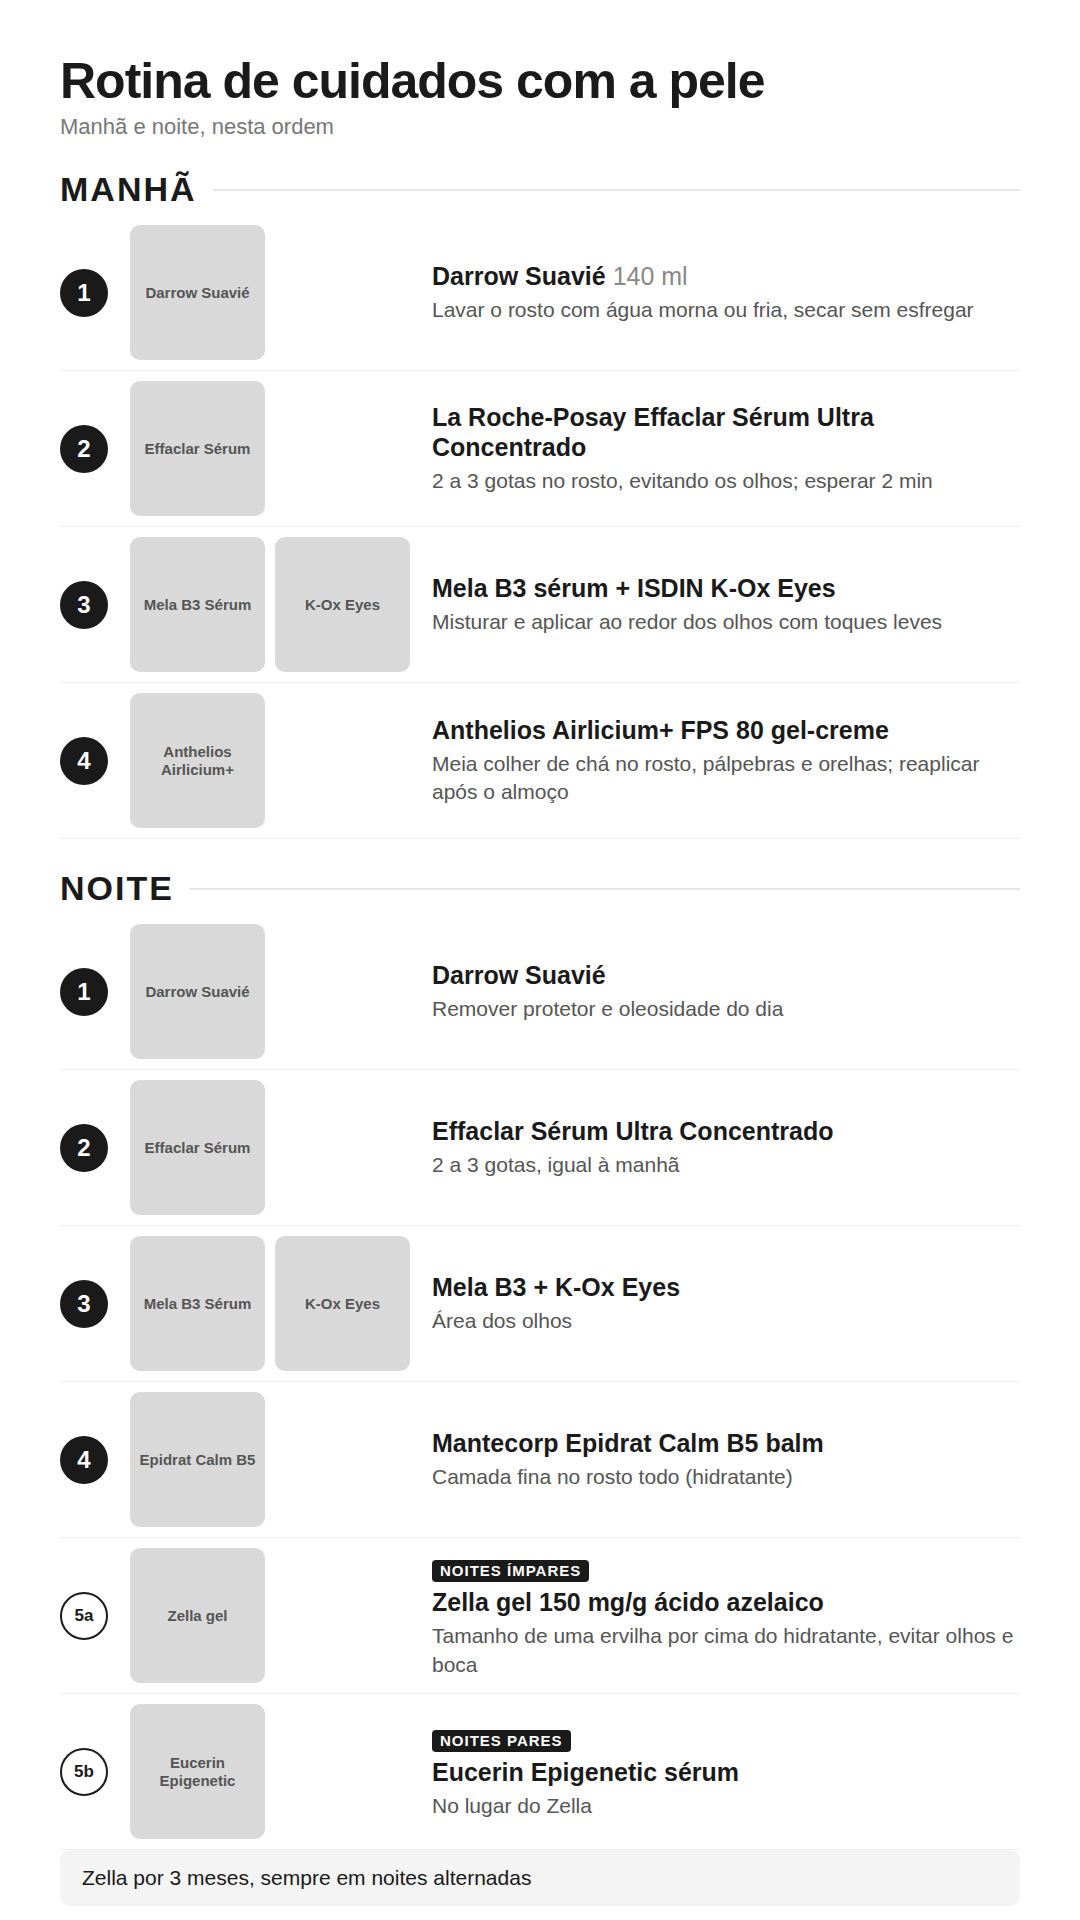
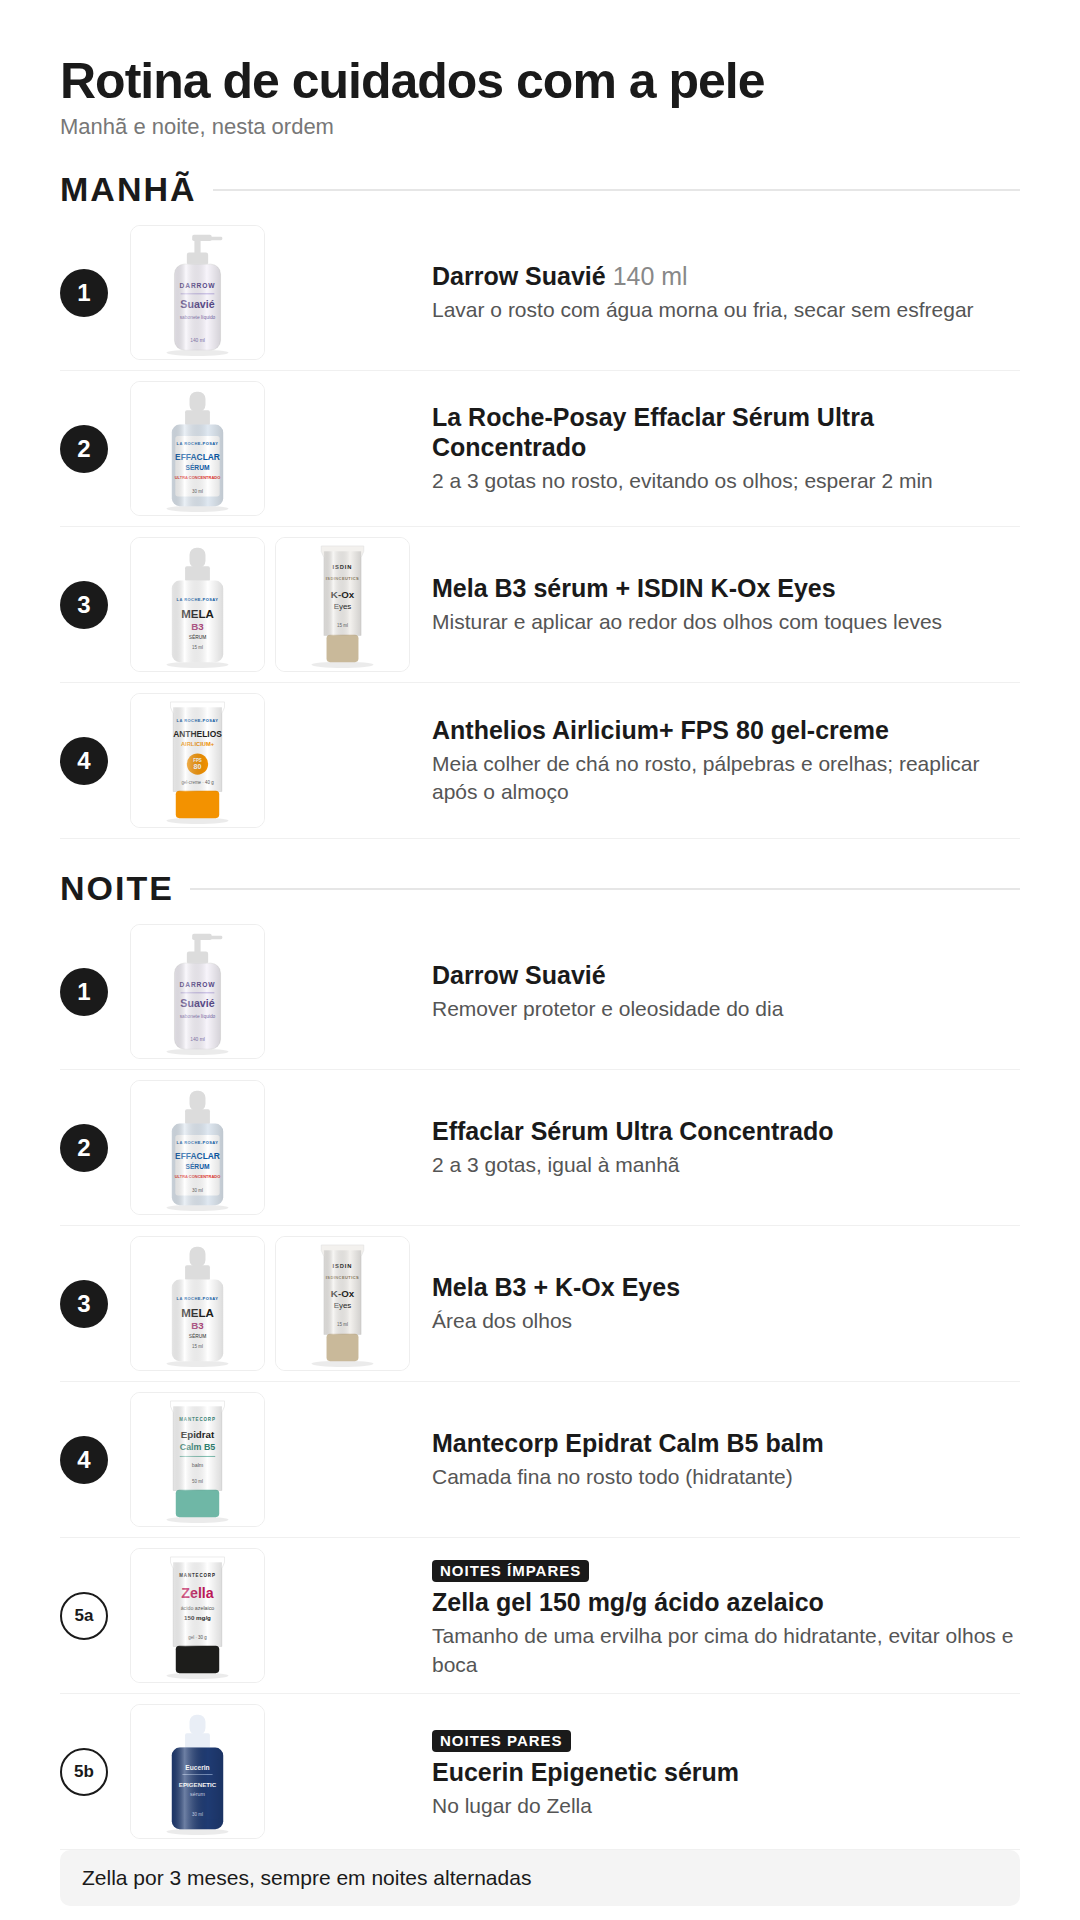
Substitui placeholders por ilustrações vetoriais das embalagens
Fotos oficiais não puderam ser baixadas (rede do ambiente bloqueia os
sites); o script aceita .svg e usa fotos reais se forem colocadas em assets/.

Claude-Session: https://claude.ai/code/session_01MdbmXhLyM3HrPLwpjDKrzL

Changed region(s): [[0.1222, 0.4688, 0.3972, 0.9688], [0.1222, 0.0938, 0.3972, 0.4375]]

diff --git a/rotina_pele.html b/rotina_pele.html
@@ -27,44 +27,44 @@ h1{font-size:50px;font-weight:800;letter-spacing:-1px}
 <div class="sec"><h2>Manhã</h2><div class="line"></div></div>
 
 <div class="row "><div class="num">1</div>
-<div class="imgs"><div class="ph ph-empty"><span>Darrow Suavié</span></div></div>
+<div class="imgs"><div class="ph"><img src="file:///home/user/controle-cashless/assets/darrow_suavie.svg"></div></div>
 <div class="txt"><div class="name">Darrow Suavié <span style='font-weight:400;color:#888'>140 ml</span></div><div class="desc">Lavar o rosto com água morna ou fria, secar sem esfregar</div></div></div>
 
 <div class="row "><div class="num">2</div>
-<div class="imgs"><div class="ph ph-empty"><span>Effaclar Sérum</span></div></div>
+<div class="imgs"><div class="ph"><img src="file:///home/user/controle-cashless/assets/lrp_effaclar_serum.svg"></div></div>
 <div class="txt"><div class="name">La Roche-Posay Effaclar Sérum Ultra Concentrado</div><div class="desc">2 a 3 gotas no rosto, evitando os olhos; esperar 2 min</div></div></div>
 
 <div class="row "><div class="num">3</div>
-<div class="imgs"><div class="ph ph-empty"><span>Mela B3 Sérum</span></div><div class="ph ph-empty"><span>K-Ox Eyes</span></div></div>
+<div class="imgs"><div class="ph"><img src="file:///home/user/controle-cashless/assets/lrp_mela_b3.svg"></div><div class="ph"><img src="file:///home/user/controle-cashless/assets/isdin_kox_eyes.svg"></div></div>
 <div class="txt"><div class="name">Mela B3 sérum + ISDIN K-Ox Eyes</div><div class="desc">Misturar e aplicar ao redor dos olhos com toques leves</div></div></div>
 
 <div class="row "><div class="num">4</div>
-<div class="imgs"><div class="ph ph-empty"><span>Anthelios Airlicium+</span></div></div>
+<div class="imgs"><div class="ph"><img src="file:///home/user/controle-cashless/assets/lrp_anthelios_airlicium.svg"></div></div>
 <div class="txt"><div class="name">Anthelios Airlicium+ FPS 80 gel-creme</div><div class="desc">Meia colher de chá no rosto, pálpebras e orelhas; reaplicar após o almoço</div></div></div>
 <div class="sec"><h2>Noite</h2><div class="line"></div></div>
 
 <div class="row "><div class="num">1</div>
-<div class="imgs"><div class="ph ph-empty"><span>Darrow Suavié</span></div></div>
+<div class="imgs"><div class="ph"><img src="file:///home/user/controle-cashless/assets/darrow_suavie.svg"></div></div>
 <div class="txt"><div class="name">Darrow Suavié</div><div class="desc">Remover protetor e oleosidade do dia</div></div></div>
 
 <div class="row "><div class="num">2</div>
-<div class="imgs"><div class="ph ph-empty"><span>Effaclar Sérum</span></div></div>
+<div class="imgs"><div class="ph"><img src="file:///home/user/controle-cashless/assets/lrp_effaclar_serum.svg"></div></div>
 <div class="txt"><div class="name">Effaclar Sérum Ultra Concentrado</div><div class="desc">2 a 3 gotas, igual à manhã</div></div></div>
 
 <div class="row "><div class="num">3</div>
-<div class="imgs"><div class="ph ph-empty"><span>Mela B3 Sérum</span></div><div class="ph ph-empty"><span>K-Ox Eyes</span></div></div>
+<div class="imgs"><div class="ph"><img src="file:///home/user/controle-cashless/assets/lrp_mela_b3.svg"></div><div class="ph"><img src="file:///home/user/controle-cashless/assets/isdin_kox_eyes.svg"></div></div>
 <div class="txt"><div class="name">Mela B3 + K-Ox Eyes</div><div class="desc">Área dos olhos</div></div></div>
 
 <div class="row "><div class="num">4</div>
-<div class="imgs"><div class="ph ph-empty"><span>Epidrat Calm B5</span></div></div>
+<div class="imgs"><div class="ph"><img src="file:///home/user/controle-cashless/assets/mantecorp_epidrat_calm_b5.svg"></div></div>
 <div class="txt"><div class="name">Mantecorp Epidrat Calm B5 balm</div><div class="desc">Camada fina no rosto todo (hidratante)</div></div></div>
 
 <div class="row alt"><div class="num">5a</div>
-<div class="imgs"><div class="ph ph-empty"><span>Zella gel</span></div></div>
+<div class="imgs"><div class="ph"><img src="file:///home/user/controle-cashless/assets/mantecorp_zella.svg"></div></div>
 <div class="txt"><div class="name"><span class='tag'>Noites ímpares</span><br>Zella gel 150 mg/g ácido azelaico</div><div class="desc">Tamanho de uma ervilha por cima do hidratante, evitar olhos e boca</div></div></div>
 
 <div class="row alt"><div class="num">5b</div>
-<div class="imgs"><div class="ph ph-empty"><span>Eucerin Epigenetic</span></div></div>
+<div class="imgs"><div class="ph"><img src="file:///home/user/controle-cashless/assets/eucerin_epigenetic.svg"></div></div>
 <div class="txt"><div class="name"><span class='tag'>Noites pares</span><br>Eucerin Epigenetic sérum</div><div class="desc">No lugar do Zella</div></div></div>
 <div class="foot">Zella por 3 meses, sempre em noites alternadas</div>
 </body></html>
